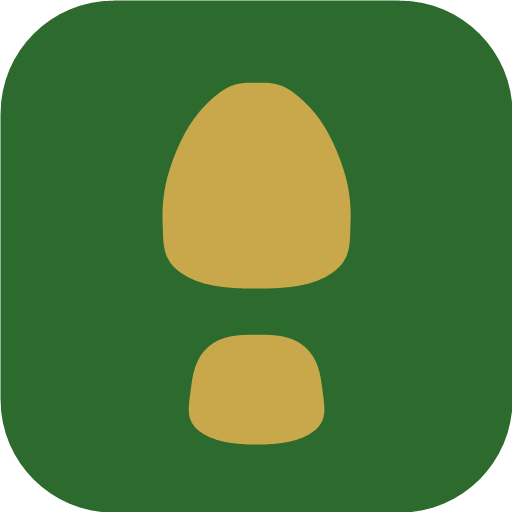
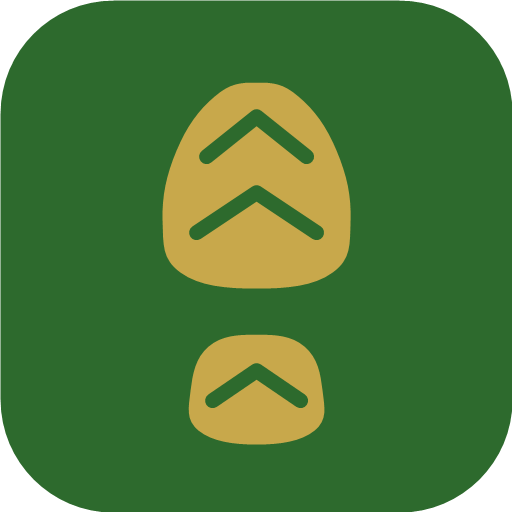
Put tread on the boot
Stacked chevrons in the forefoot and heel, so the mark reads as a work boot
rather than a generic footprint.

First attempt used full-width horizontal channels, which is honestly what a
lug pattern looks like — but drawn flat they sliced the sole into stacked
bands and the whole thing read as a hamburger. Chevrons carry the same signal
without ever cutting the silhouette clean across, and they survive being
shrunk: still legible at 192, still a boot at a glance.

They also do double duty. A chevron is the map symbol for north, so the tread
doubles as a survey arrow — the boot and the measuring in one shape, rather
than a symbol bolted on top of another symbol.

Changed region(s): [[0.375, 0.2188, 0.625, 0.3438], [0.3438, 0.3438, 0.6562, 0.4688], [0.4062, 0.6875, 0.5938, 0.8125]]

diff --git a/sw.js b/sw.js
@@ -17,7 +17,7 @@
  * Bump CACHE_VERSION on deploy; old caches are dropped on activate.
  */
 
-const CACHE_VERSION = 'v11';
+const CACHE_VERSION = 'v12';
 const SHELL_CACHE = `bp-shell-${CACHE_VERSION}`;
 const LIB_CACHE = `bp-lib-${CACHE_VERSION}`;
 const TILE_CACHE = `bp-tiles-${CACHE_VERSION}`;
